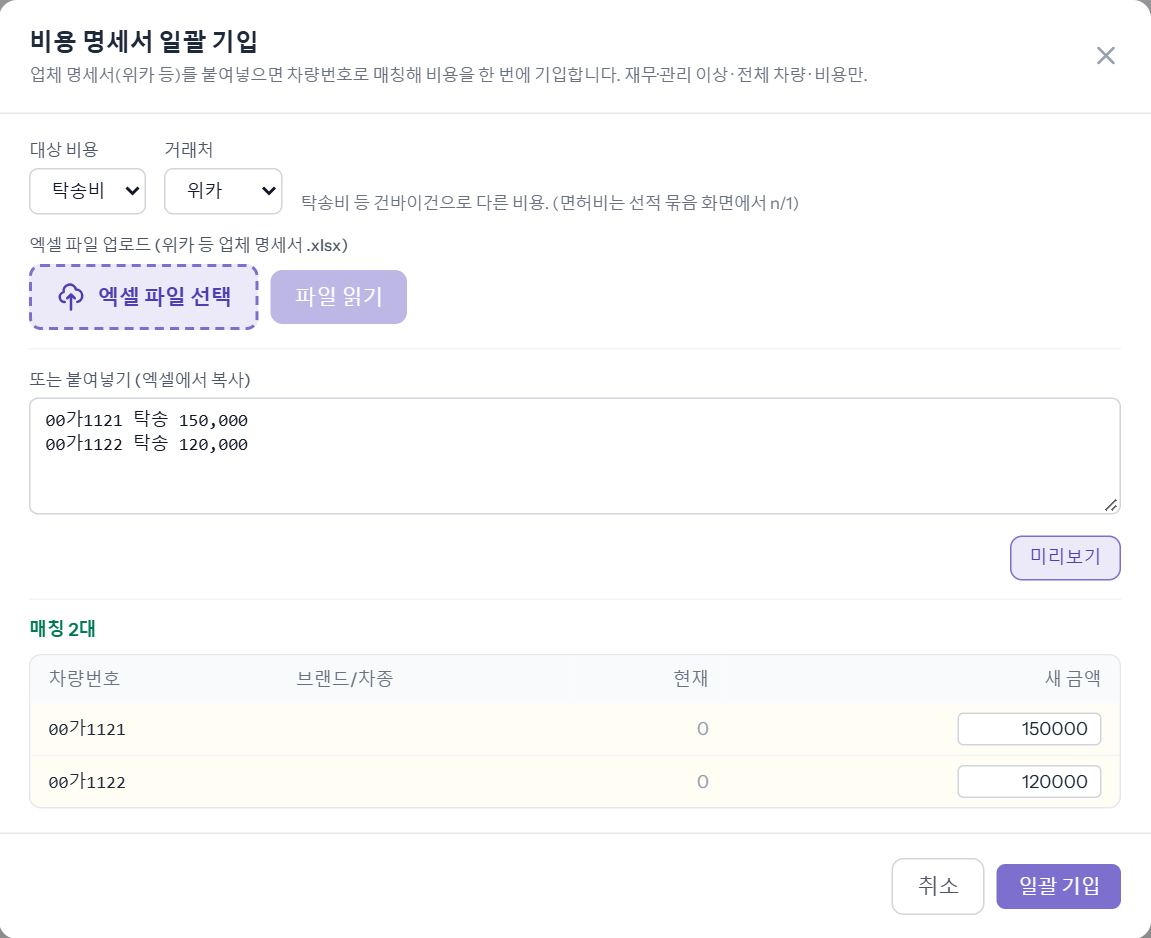
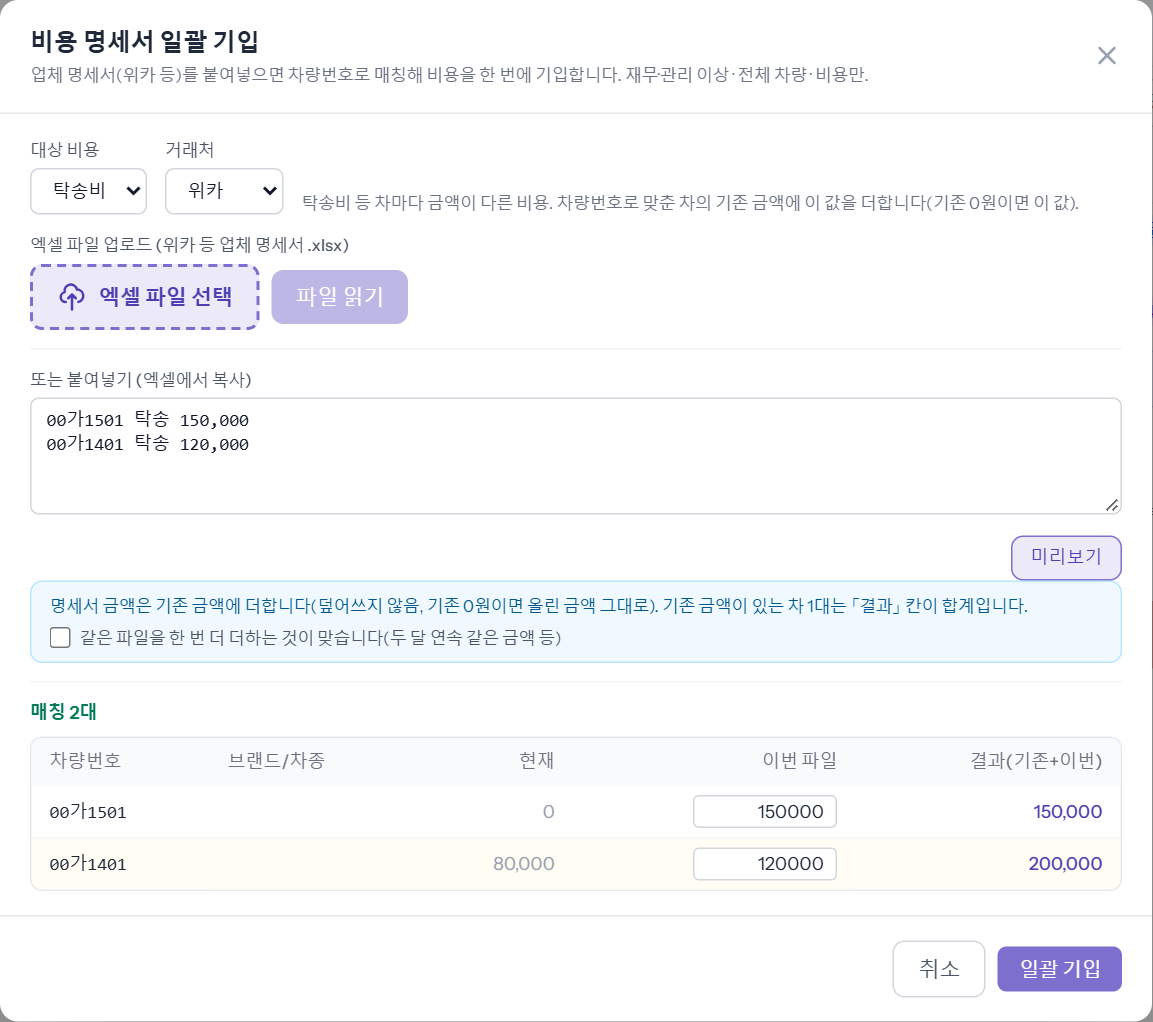
docs(guides): 업무 가이드 — B2B 파트너스 메모 · 대시보드 마감환율 새 장면 · 2차 정산 명세서 기입 「더함」 그림·글

diff --git a/resources/guides/secondary-settlement/index.html b/resources/guides/secondary-settlement/index.html
@@ -29,19 +29,19 @@
                 <tr><th>대상 비용</th><th>거래처</th><th>올리는 것</th><th>차에 넣는 방식</th></tr>
             </thead>
             <tbody>
-                <tr><td rowspan="3">탁송비</td><td>위카</td><td>업체 엑셀 파일, 또는 차량번호·금액 줄을 복사해 붙여넣기</td><td rowspan="3">그 금액으로 <strong>바꿔 씀</strong>(같은 차가 여러 줄이면 합산)</td></tr>
+                <tr><td rowspan="3">탁송비</td><td>위카</td><td>업체 엑셀 파일, 또는 차량번호·금액 줄을 복사해 붙여넣기</td><td rowspan="3">기존 금액에 <strong>더함</strong>(같은 차가 여러 줄이면 합산)</td></tr>
                 <tr><td>구천육</td><td>업체 엑셀 파일(J 차량번호 · 탁송비 F + 주유 G)</td></tr>
                 <tr><td>현대A1</td><td>업체 엑셀 파일(시트 「1.싼카」 · F 차량번호 · L 합계, 부가세 포함)</td></tr>
-                <tr><td>캐리비</td><td>디케이로지스</td><td>「거래명세서」 엑셀(F 차량번호 · H 금액, 부가세 포함)</td><td><strong>바꿔 씀</strong>(같은 차가 두 줄이면 합산)</td></tr>
+                <tr><td>캐리비</td><td>디케이로지스</td><td>「거래명세서」 엑셀(F 차량번호 · H 금액, 부가세 포함)</td><td>기존 금액에 <strong>더함</strong>(같은 차가 두 줄이면 합산)</td></tr>
                 <tr><td>보험료</td><td>데일리</td><td>「가입이력조회」 엑셀(B 차량번호 · C 차대번호 · G 가입금액)</td><td>기존 보험료에 <strong>더함</strong>. 차량번호와 차대번호가 함께 맞는 차에만 넣습니다</td></tr>
-                <tr><td rowspan="2">면허비</td><td>뮤추얼</td><td>통관 면허비 월명세서 엑셀</td><td>수출신고번호로 차를 묶어 합계를 대수로 나눠(n/1) 넣음</td></tr>
+                <tr><td rowspan="2">면허비</td><td>뮤추얼</td><td>통관 면허비 월명세서 엑셀</td><td>수출신고번호로 차를 묶어 합계를 대수로 나눠(n/1) 기존 금액에 <strong>더함</strong></td></tr>
                 <tr><td>성지</td><td>올리지 않음 — 창의 [선적요청으로 이동]</td><td>선적요청 「2차 비용 (성지 면허비)」 탭에서 총액을 넣어 묶음 대수로 나눔(n/1)</td></tr>
             </tbody>
         </table>
     </div>
     <p>붙여넣기(「또는 붙여넣기」 칸 → [미리보기])는 탁송비 · 위카일 때만 됩니다. 예시는 붙여넣기로 했습니다.</p>
-    <p>차량번호로 맞춘 차가 「매칭 N대」로 보입니다. 「현재」 금액과 「새 금액」을 확인하고 [일괄 기입]을 누릅니다.</p>
-    <img src="03.png" alt="비용 명세서 일괄 기입 창 — 탁송비·위카, 붙여넣기 00가1121 150,000 · 00가1122 120,000, 매칭 2대">
+    <p>차량번호로 맞춘 차가 「매칭 N대」로 보입니다. 명세서 금액은 <strong>기존 금액에 더해집니다</strong>(2026-11-26부터 모든 명세서, 기존 0원이면 올린 금액 그대로). 「현재」 · 「이번 파일」 · 「결과(기존+이번)」를 확인하고 [일괄 기입]을 누릅니다. 같은 파일을 두 번 올리면 두 배가 되지 않게 막힙니다. 업체가 금액을 정정해 다시 보낸 경우엔 명세서를 다시 올리지 말고 차량 창에서 그 칸을 고칩니다.</p>
+    <img src="03.png" alt="비용 명세서 일괄 기입 창 — 탁송비·위카, 붙여넣기 00가1501 150,000 · 00가1401 120,000, 「기존 금액에 더합니다」 안내, 매칭 2대: 00가1501 현재 0 + 이번 150,000 = 결과 150,000 · 00가1401 현재 80,000 + 이번 120,000 = 결과 200,000">
 </div>
 
 <div class="gd-step">

diff --git a/resources/guides/exchange-rate-closing/index.html b/resources/guides/exchange-rate-closing/index.html
@@ -1,0 +1,38 @@
+<p style="margin:0 0 14px;color:#4b5563;line-height:1.65">
+    업무 대시보드 맨 위에 「실시간 환율」과 함께 <b>직전 영업일의 마감환율</b>이 나옵니다. 오늘이 11월 26일이면 「11월 25일 마감환율」입니다. 송금받을때와 매매기준율 두 가지를 보여 주고, 12월부터 판매잔금 환율을 자동으로 적을 때 쓰는 값과 같습니다.
+</p>
+
+<h2 class="gd-sec">① 어디서 보나</h2>
+
+<div class="gd-step">
+    <div class="gd-n">1단계</div>
+    <h3>대시보드 → 「실시간 환율」 줄 바로 아래 「○월 ○일 마감환율」 줄</h3>
+    <p>앞쪽이 송금받을때, 뒤쪽이 매매기준율입니다. 통화는 USD · JPY(100엔당) · EUR · GBP · CNY 순입니다. 제목의 날짜가 어느 날 마감인지입니다.</p>
+    <img src="01.png" alt="실시간 환율 줄 아래 「11월 25일 마감환율」 — 송금받을때 USD ₩1,332.40 · JPY(100) ₩837.10 · EUR ₩1,462.20 · GBP ₩1,747.19 · CNY ₩199.82, 매매기준율 USD ₩1,345.50 · JPY(100) ₩845.38 · EUR ₩1,476.96 · GBP ₩1,764.83 · CNY ₩201.83, 받아오기 버튼">
+    <ul>
+        <li>실시간 환율 줄이 있는 화면(담당 영업 · 재무 · 관리 뷰)에서 보입니다.</li>
+        <li>주말 · 공휴일에는 마감이 없어서 그 전 영업일 값이 나옵니다(월요일이면 금요일 마감).</li>
+    </ul>
+</div>
+
+<h2 class="gd-sec">② 비어 있거나 날짜가 하루 늦을 때 — [받아오기]</h2>
+
+<div class="gd-step">
+    <div class="gd-n">2단계</div>
+    <h3>줄 끝의 [받아오기] → 「○○ 마감환율을 받았습니다」</h3>
+    <p>마감환율은 매일 자동으로 받습니다. 보통 <b>오전 9시</b>에 전날 값이 들어오므로, 그 전에는 하루 전 마감이 보이거나 「⚠ 직전 영업일 마감이 아직 없습니다」가 뜰 수 있습니다. 그때 [받아오기]를 누르면 다시 받아 옵니다.</p>
+    <img src="02.png" alt="받아오기를 누른 뒤 — 오른쪽 위 초록 알림 「2026-11-25 마감환율을 받았습니다」, 아래 실시간 환율 줄과 11월 25일 마감환율 줄">
+    <ul>
+        <li>[받아오기]는 <b>재무 이상</b>(재무 · 관리 · 업무관리자 · 최고관리자)에게만 보입니다.</li>
+        <li>아직 은행 고시가 올라오지 않았으면 「아직 새 마감이 없습니다 — 지금은 ○○ 마감이 최신입니다」가 뜹니다. 9시 이후에 다시 누르면 됩니다.</li>
+        <li>[받아오기]는 환율 값만 저장합니다. 차량 · 입금 기록은 바뀌지 않습니다.</li>
+    </ul>
+</div>
+
+<div class="gd-check">
+    <h3>알아 둘 것</h3>
+    <ul>
+        <li>「실시간 환율」은 지금 이 순간 값(1시간마다 갱신)이고, 「마감환율」은 그날 은행이 확정한 값입니다. 판매잔금 환율을 자동으로 적는 기능(12월 시작 예정)이 켜지면 그때 쓰는 값이 마감환율입니다.</li>
+        <li>공휴일 다음 날에는 「아직 없습니다」가 떠도 정상입니다 — 공휴일에는 마감이 없습니다.</li>
+    </ul>
+</div>

diff --git a/resources/guides/b2b-partner-memo/index.html b/resources/guides/b2b-partner-memo/index.html
@@ -1,0 +1,34 @@
+<p style="margin:0 0 14px;color:#4b5563;line-height:1.65">
+    B2B 파트너(특수계약 관리대상) 바이어마다 따로 챙길 내용을 「B2B 메모」에 적어 둡니다. 바이어의 일반 메모와는 별개로 저장되고, 사이드바 「B2B 파트너스」 목록에 「B2B 메모」 열로 그대로 보여서 바이어 창을 열지 않고도 한눈에 볼 수 있습니다. 예시 바이어와 연락처는 가짜입니다.
+</p>
+
+<h2 class="gd-sec">① 메모 적기</h2>
+
+<div class="gd-step">
+    <div class="gd-n">1단계</div>
+    <h3>사이드바 「B2B 파트너스」 → 바이어 줄 클릭 → 노란 B2B 칸의 「B2B 메모」</h3>
+    <p>바이어 창의 노란 「특수계약 관리대상 (B2B 파트너스)」 칸 안, DP·FD 아래에 있습니다. 여러 줄로 적어도 되고(Enter 로 줄바꿈), 다 적었으면 창 아래 [저장]을 누릅니다.</p>
+    <img src="01.png" alt="바이어 창의 노란 B2B 칸 — 특수계약 관리대상 체크, DP·FD 진행 중, B2B 메모 칸에 「2027 연간 약정 갱신 협의 중 — 12월 둘째 주 미팅 / 선적 서류 원본은 DHL 로 사무실 주소에 보냄」, 그 아래 계약서 목록">
+    <ul>
+        <li>메모는 <b>관리 이상</b>(관리 · 업무관리자 · 최고관리자)만 고칩니다. 다른 분께는 읽기만 됩니다.</li>
+        <li>바이어 창 아래쪽의 일반 「메모」와 섞이지 않습니다 — B2B 와 관련된 내용만 여기에 적습니다.</li>
+    </ul>
+</div>
+
+<h2 class="gd-sec">② 목록에서 보기</h2>
+
+<div class="gd-step">
+    <div class="gd-n">2단계</div>
+    <h3>「B2B 파트너스」 목록의 「B2B 메모」 열</h3>
+    <p>저장하면 목록 맨 오른쪽 「B2B 메모」 열에 적은 그대로(줄바꿈 포함) 나옵니다. 메모가 없는 바이어는 「-」입니다. 휴대폰에서는 바이어 카드 아래에 「B2B 메모」 이름표와 함께 나옵니다.</p>
+    <img src="02.png" alt="B2B 파트너스 목록 — B2B데모 파트너 LLC 줄, B2B·DP·FD 뱃지 오른쪽 B2B 메모 열에 두 줄 메모">
+</div>
+
+<div class="gd-check">
+    <h3>알아 둘 것</h3>
+    <ul>
+        <li>「B2B 메모」 열은 「B2B 파트너스」 목록에서만 보입니다. 일반 「바이어」 목록에는 나오지 않습니다.</li>
+        <li>회사 설정에서 B2B 파트너스를 쓰지 않으면 칸과 열이 모두 보이지 않습니다(적어 둔 내용은 지워지지 않습니다).</li>
+        <li>메모는 표시용입니다 — 정산 · 미수 · 승인에는 영향이 없습니다.</li>
+    </ul>
+</div>

diff --git a/config/guides.php b/config/guides.php
@@ -39,6 +39,8 @@ return [
         'sale-payment' => ['Record sale receipts', 'Enter and confirm receipts; the unpaid ratio and stage follow'],
         'board-sale-payment-check' => ['Board sale-payment check request', 'Handle a receipt check requested from Board'],
         'bank-documents' => ['Bank documents — wire advice, bank Proforma, bank email', 'Upload the wire advice to read the remitter name, build the bank Proforma and mail it to the bank officer'],
+        'exchange-rate-closing' => ['Closing exchange rates on the dashboard', 'See the previous business day closing rates and fetch them again if they are missing'],
+        'b2b-partner-memo' => ['B2B partner memo', 'Keep notes per B2B partner and see them as a column in the B2B Partners list'],
         'buyer-account' => ['Buyer account status', 'Split cash received from a buyer across vehicles'],
         'savings' => ['Earn and use buyer credit', 'Build up credit and apply it to the next vehicle'],
         'buyer-undecided' => ['Revert to "buyer undecided"', 'Undo a sale when the buyer cancels'],
@@ -76,6 +78,8 @@ return [
         'sale-payment' => ['sale', '판매 입금', '입금을 넣고 확정하면 미수율과 진행상태가 바뀝니다', ['재무'], '잔금 중도금 완납 미수'],
         'board-sale-payment-check' => ['sale', 'board 판매대금확인 요청', 'board가 보낸 입금 확인 요청을 처리합니다', ['재무'], '판매대금확인'],
         'bank-documents' => ['sale', '은행 서류 — 전신문 · 은행용 Proforma · 은행 메일', '전신문을 올리면 송금인 이름을 읽어 넣고, 은행용 Proforma 를 만들어 은행 담당자에게 보냅니다', ['재무', '관리'], '전신문 송금인 해외송금 내도통지 은행용 Proforma 인보이스 은행 메일 신한 TIF 팩스 Debtor'],
+        'exchange-rate-closing' => ['sale', '대시보드 마감환율 보기 · 받아오기', '직전 영업일 마감환율(송금받을때 · 매매기준율)을 보고, 비어 있으면 받아옵니다', ['재무', '관리'], '마감환율 환율 송금받을때 매매기준율 받아오기 전날 마감 실시간 환율 대시보드'],
+        'b2b-partner-memo' => ['sale', 'B2B 파트너스 메모', 'B2B 파트너 바이어마다 메모를 적고 B2B 파트너스 목록에서 열로 봅니다', ['관리'], 'B2B 파트너스 메모 특수계약 관리대상 바이어 메모 DP FD'],
         'buyer-account' => ['sale', '바이어 정산현황', '바이어가 보낸 현금을 차량별 잔금으로 나눕니다', ['재무'], '현금 입금 배분'],
         'savings' => ['sale', '적립금 적립과 사용', '적립금을 쌓고 다음 차 잔금에 씁니다', ['재무'], '적립금 크레딧'],
         'buyer-undecided' => ['sale', '바이어 미정으로 되돌리기', '바이어가 구매를 취소했을 때 판매를 무릅니다', ['관리'], '판매 취소 무르기'],

diff --git a/tests/Feature/GuidesPageTest.php b/tests/Feature/GuidesPageTest.php
@@ -55,10 +55,10 @@ class GuidesPageTest extends TestCase
         $this->scene('purchase-payment', '<div class="gd-step"><p>확정한 줄 옆 딜러알림을 누르면 이체확인증을 붙여 넣는 창이 뜹니다.</p></div>');
 
         $all = collect(GuideCatalog::all())->keyBy('slug');
-        $this->assertCount(33, $all);
+        $this->assertCount(35, $all);
         $this->assertSame('new', $all['purchase-payment']['status']);
         $this->assertSame('wait', $all['vehicle-register']['status']);
-        $this->assertSame(range(1, 33), $all->pluck('no')->values()->all());
+        $this->assertSame(range(1, 35), $all->pluck('no')->values()->all());
 
         $this->actingAs($this->staff())->get('/guides')->assertOk()
             ->assertSee('업무 가이드')
